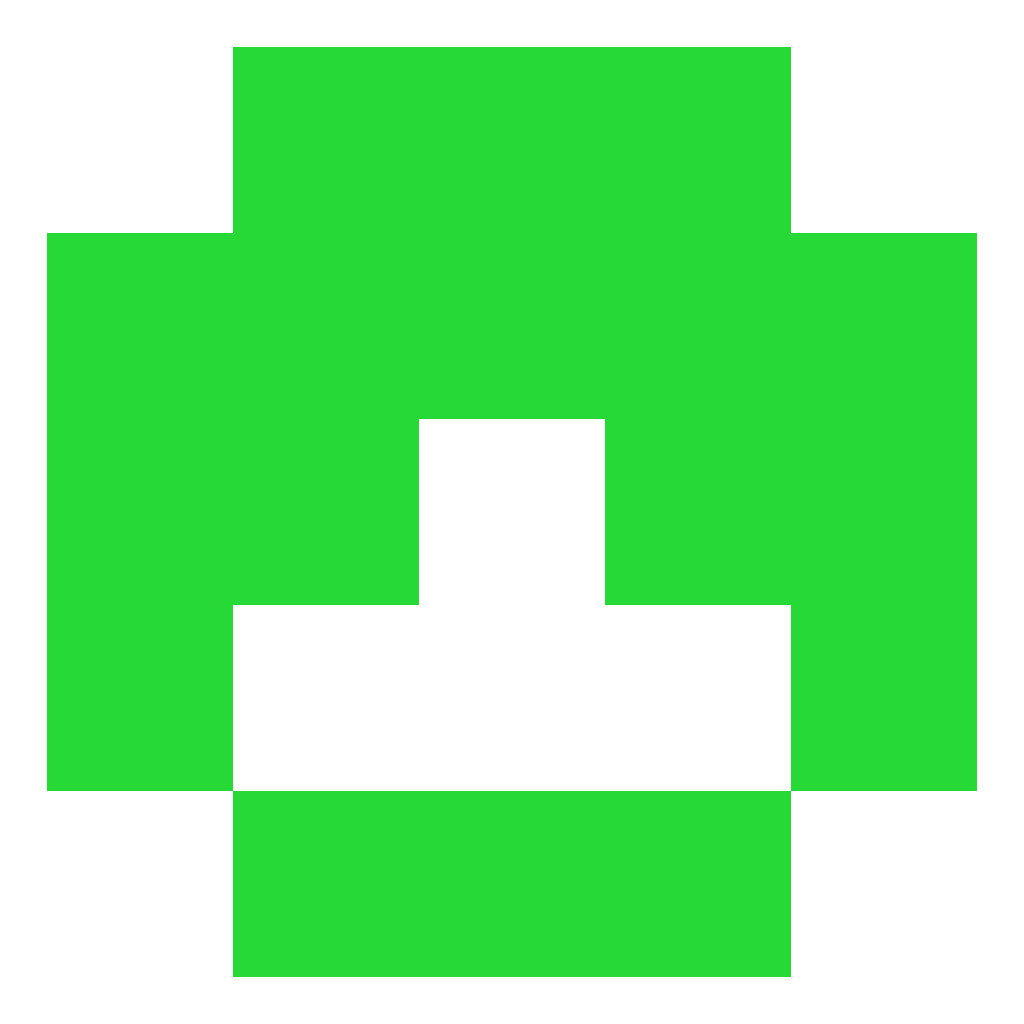
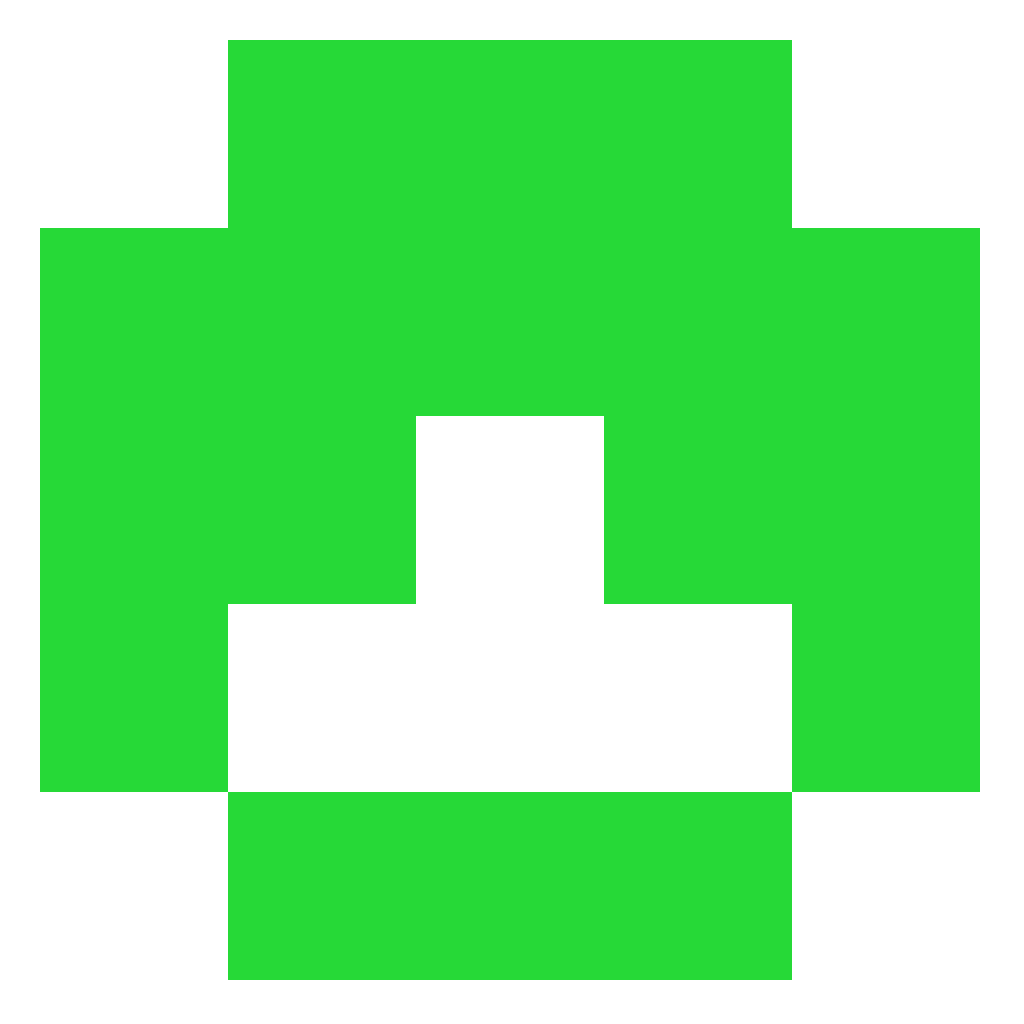
Scale the blocks for @4x, not the canvas
@4x was rendered by asking for a 1024-pixel canvas, which re-runs the
geometry heuristic at the larger size. round(size / 5.5) does not scale
linearly, so 1024 landed on cell 186 margin 47 where four times the
256-pixel render is cell 188 margin 40. The two files were different
drawings of one mark -- a 9.2% border against a 7.8% one -- which a
native UI would have flipped between when it swapped assets on a HiDPI
screen. That is not what a 4x asset is.

render_rgba now takes `scale`, which multiplies the blocks: the geometry
is worked out once at `size` and then multiplied, so the output is the
`size` image with every pixel repeated `scale` times in each direction.
Verified as exactly that, byte for byte, rather than approximately.

The 1x PNG, the SVG, the colour and the key are untouched -- 256 still
renders cell 47 margin 10. Only @4x changed.

SPEC.md now states the rule, since a port re-deriving the geometry at the
larger size would reproduce the same defect and still pass the vectors:
the vectors pin the grid and the colour, not the raster geometry.

65 tests.

Claude-Session: https://claude.ai/code/session_014u1KNpydJDEjx8ZCtsnJ4E

diff --git a/tests/test_conformance.py b/tests/test_conformance.py
@@ -18,6 +18,7 @@ import json
 import os
 import pathlib
 import shutil
+import struct
 import subprocess
 import tempfile
 import unittest
@@ -196,6 +197,55 @@ class TestTheVectorsCanBeRegenerated(unittest.TestCase):
             capture_output=True, text=True, cwd=str(ROOT / "reference"), timeout=60)
         self.assertEqual(0, result.returncode, result.stderr)
         self.assertEqual(document, json.loads(result.stdout))
+
+
+class TestTheScaledRaster(unittest.TestCase):
+    """`@4x` must be the PNG with four times the pixels, not a second drawing.
+
+    The geometry is a heuristic -- round(size / 5.5) -- so it does not scale
+    linearly. Re-deriving it from the larger canvas gives 1024 a cell of 186
+    and a margin of 47 where four times the 256px render is 188 and 40: two
+    renderings of one mark, at visibly different border ratios, which is what
+    a native UI would flip between on a HiDPI screen.
+    """
+
+    KEY = "1:github.com/someone/a-project"
+
+    def magnify(self, rgba, size, scale):
+        """The 1x pixels, each repeated `scale` times in both directions."""
+        rows = []
+        for y in range(size):
+            row = rgba[y * size * 4:(y + 1) * size * 4]
+            wide = b"".join(row[x * 4:(x + 1) * 4] * scale for x in range(size))
+            rows.extend([wide] * scale)
+        return b"".join(rows)
+
+    def test_the_scaled_raster_is_exactly_the_magnified_one(self):
+        for size in (16, 32, 64):
+            with self.subTest(size=size):
+                one = identicon.render_rgba(self.KEY, size)
+                many = identicon.render_rgba(self.KEY, size,
+                                             scale=identicon.ARTIFACT_SCALE)
+                self.assertEqual(
+                    self.magnify(one, size, identicon.ARTIFACT_SCALE), many)
+
+    def test_scaling_multiplies_the_geometry_rather_than_re_deriving_it(self):
+        size, scale = identicon.ARTIFACT_SIZE, identicon.ARTIFACT_SCALE
+        cell, margin = identicon._geometry(size)
+        redrawn = identicon._geometry(size * scale)
+        self.assertNotEqual((cell * scale, margin * scale), redrawn,
+                            "the heuristic now scales linearly, so this test "
+                            "no longer proves anything -- check why")
+
+    def test_scale_one_changes_nothing(self):
+        self.assertEqual(identicon.render_rgba(self.KEY, 32),
+                         identicon.render_rgba(self.KEY, 32, scale=1))
+
+    def test_the_scaled_png_declares_the_scaled_edge(self):
+        size, scale = 32, identicon.ARTIFACT_SCALE
+        png = identicon.render_png(self.KEY, size, scale=scale)
+        width, height = struct.unpack(">II", png[16:24])
+        self.assertEqual((size * scale, size * scale), (width, height))
 
 
 class TestInstallingIntoARepository(unittest.TestCase):

diff --git a/repository-identicon.py b/repository-identicon.py
@@ -462,11 +462,22 @@ def _geometry(size):
     return cell, margin
 
 
-def render_rgba(key, size, saturation=SATURATION, lightness=LIGHTNESS, background=None):
-    """Return raw RGBA bytes for a square identicon of the given size."""
+def render_rgba(key, size, saturation=SATURATION, lightness=LIGHTNESS,
+                background=None, scale=1):
+    """Return raw RGBA bytes for a square identicon of the given size.
+
+    `scale` multiplies the *blocks*, not the canvas: the geometry is worked out
+    once at `size` and then multiplied, so the result is the `size` image with
+    every pixel repeated `scale` times in each direction. Re-deriving the
+    geometry from the larger canvas instead would land on a different cell and
+    margin -- 256 gives cell 47 margin 10, 1024 gives cell 186 margin 47 -- and
+    the two files would be different renderings rather than one at two
+    resolutions.
+    """
     grid = identicon_grid(key)
     red, green, blue = identicon_colour(key, saturation, lightness)
     cell, margin = _geometry(size)
+    cell, margin, size = cell * scale, margin * scale, size * scale
 
     if background is None:
         back = bytes((0, 0, 0, 0))
@@ -513,7 +524,8 @@ def encode_png(rgba, width, height):
 
 
 def render_png(key, size, **kwargs):
-    return encode_png(render_rgba(key, size, **kwargs), size, size)
+    edge = size * kwargs.get("scale", 1)
+    return encode_png(render_rgba(key, size, **kwargs), edge, edge)
 
 
 def render_svg(key, size=256, saturation=SATURATION, lightness=LIGHTNESS, background=None):
@@ -936,7 +948,7 @@ def artifact_bytes(key, size=ARTIFACT_SIZE, **render_kwargs):
                               render_kwargs.get("lightness", LIGHTNESS))
     return {
         "png": render_png(key, size, **render_kwargs),
-        "png4x": render_png(key, size * ARTIFACT_SCALE, **render_kwargs),
+        "png4x": render_png(key, size, scale=ARTIFACT_SCALE, **render_kwargs),
         "svg": render_svg(key, size, **render_kwargs).encode("utf-8"),
         "colour": (hex_colour(colour) + "\n").encode("utf-8"),
     }

diff --git a/SPEC.md b/SPEC.md
@@ -304,7 +304,7 @@ what the mark was made from; it is what the mark is made from.
 
 ```
 .identicon/repository-identicon.png       raster, 256px
-.identicon/repository-identicon@4x.png    the same raster at 4x, for native UIs
+.identicon/repository-identicon@4x.png    the same pixels magnified 4x, for native UIs
 .identicon/repository-identicon.svg       vector, same geometry
 .identicon/repository-identicon.colour    "#rrggbb\n", nothing else
 .identicon/repository-identicon.key       the key, hashed exactly as it reads
@@ -426,6 +426,15 @@ margin = floor((size - cell * 5) / 2)
 Cells are generous relative to the canvas so that a 16-pixel icon still reads as
 a pattern. Filled cells take the colour; everything else is transparent by
 default.
+
+**A scaled raster MUST multiply this geometry, not re-derive it.** `@4x` is the
+`size` image with every pixel repeated four times in each direction, and an
+implementation MUST produce it by computing `cell` and `margin` at `size` and
+multiplying both by the scale. The rounding above does not scale linearly:
+re-deriving at `size * 4` gives a 1024-pixel canvas `cell = 186, margin = 47`
+where four times the 256-pixel render is `188` and `40`. That is two drawings
+of one mark at different border ratios, which is exactly what a native UI would
+flip between when it swapped assets on a HiDPI screen.
 
 ### Terminal
 

diff --git a/README.md b/README.md
@@ -23,7 +23,7 @@ It derives the key from the git remote and writes four files:
 
 ```
 .identicon/repository-identicon.png       raster, 256px
-.identicon/repository-identicon@4x.png    the same raster at 4x, for native UIs
+.identicon/repository-identicon@4x.png    the same pixels magnified 4x, for native UIs
 .identicon/repository-identicon.svg       vector
 .identicon/repository-identicon.colour    "#rrggbb", and a newline
 .identicon/repository-identicon.key       the key the others came from
